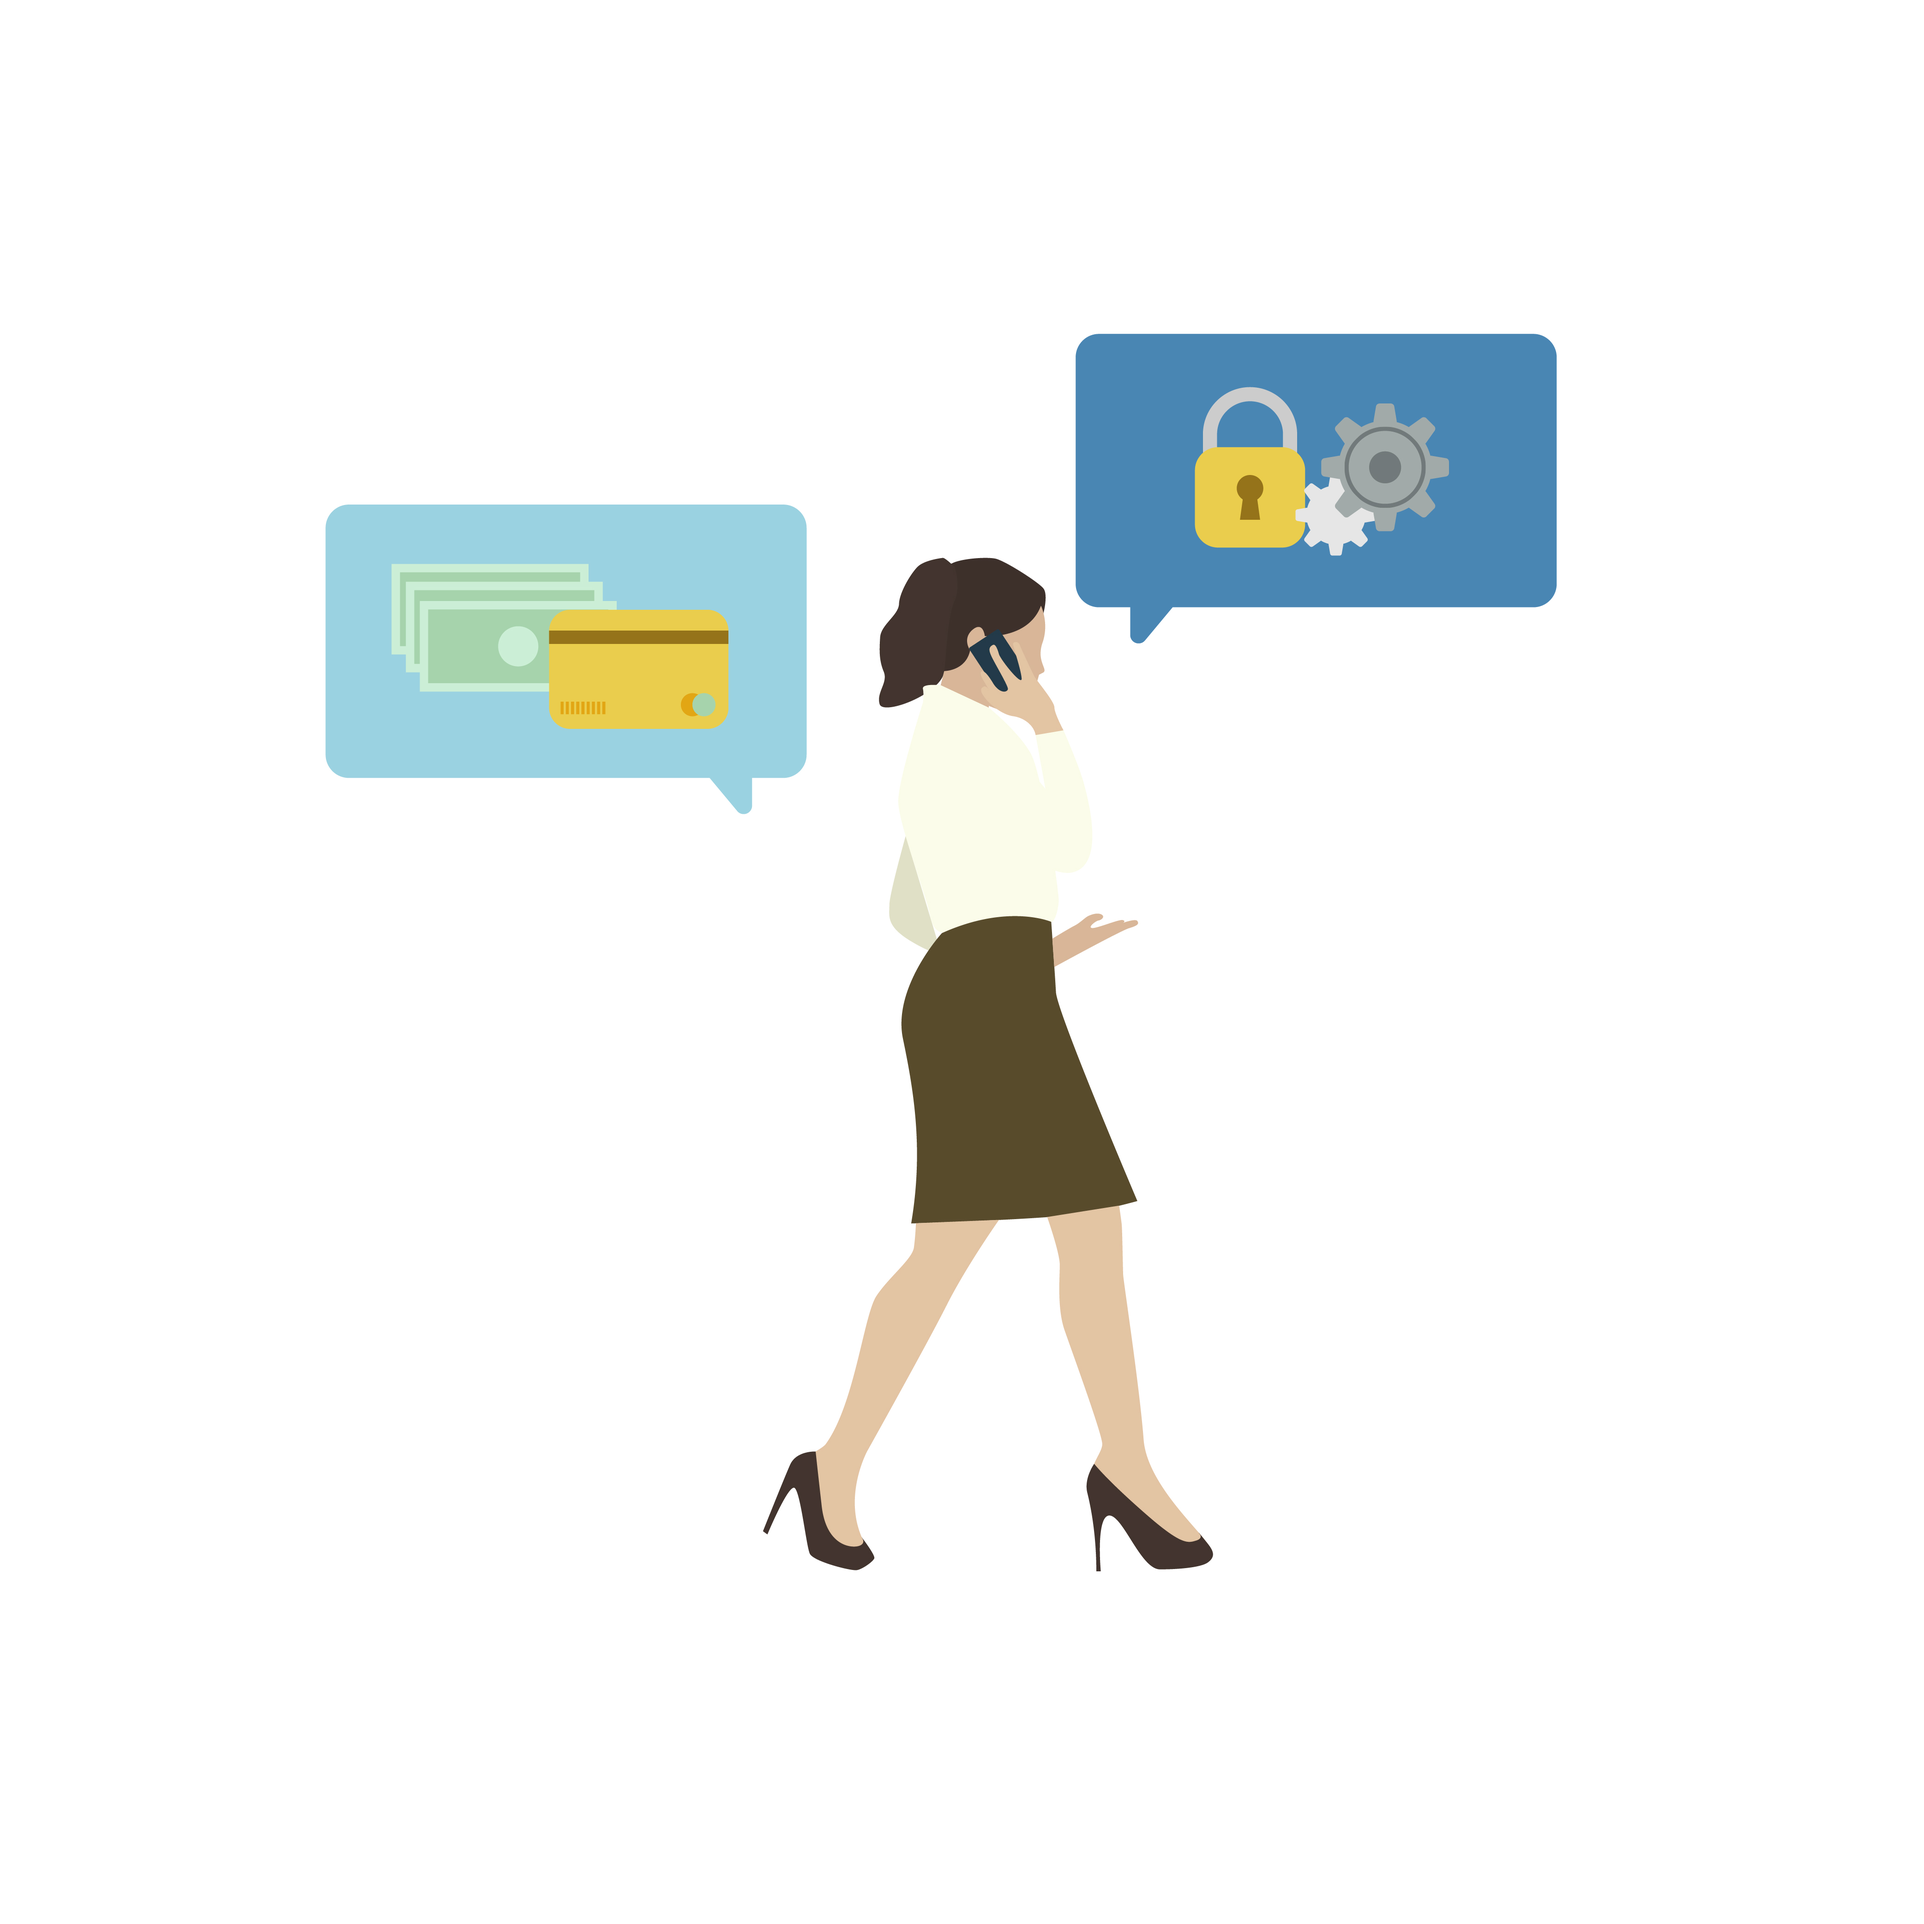
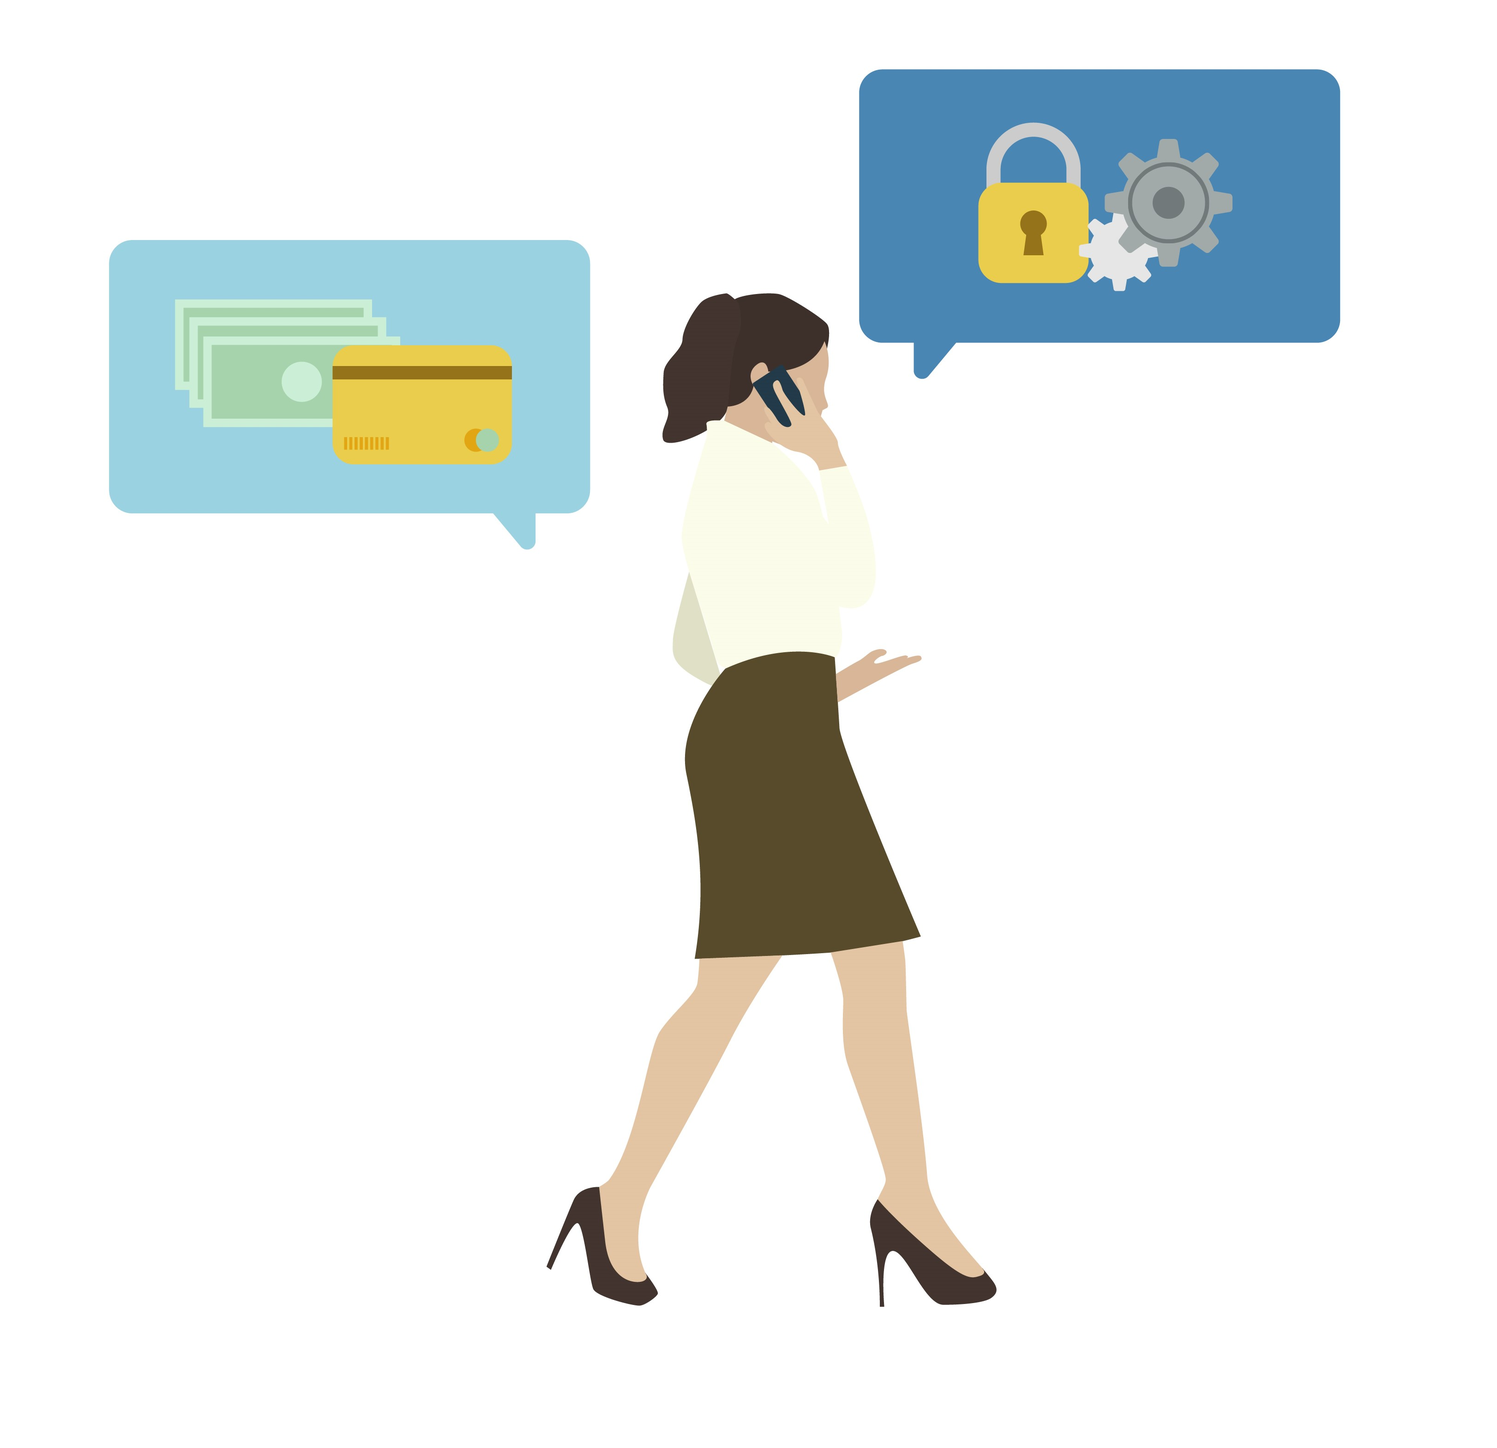
Login Image Added

Changed region(s): [[0.0623, 0.0312, 0.9032, 0.4374], [0.3737, 0.4061, 0.6852, 0.906]]

diff --git a/Practices 6/src/pages/Login/Login.jsx b/Practices 6/src/pages/Login/Login.jsx
@@ -8,9 +8,9 @@ const Login = () => {
   const [eye, setEye] = useState(false);
   return (
     <div className="flex items-center justify-center min-h-[calc(100vh-92px)]">
-      <div className="flex flex-col md:flex-row-reverse items-center w-full gap-5">
-        <div className="w-full md:w-1/2 bg-red-200 h-full ">
-          <img src={imageLogin} alt="" className="h-full" />
+      <div className="flex flex-col md:flex-row items-center w-full gap-5 border-2 rounded-lg border-secondary min-h-[450px] p-10 mt-8">
+        <div className="w-full md:w-1/2 h-[450px] flex justify-center items-center">
+          <img src={imageLogin} alt="" className="max-h-full mx-auto" />
         </div>
         <div className="w-full md:w-1/2 mx-auto border-2 rounded-lg p-5">
           <h1 className="text-3xl font-bold pb-6">Login Your Account</h1>
@@ -46,7 +46,7 @@ const Login = () => {
               className="w-full py-2 px-4 rounded-md text-center text-white font-bold bg-secondary active:scale-95 duration-150"
             />
           </form>{' '}
-          <p className="pt-3">
+          <p className="pt-3 text-sm">
             {`Don't have an account? `}
             <Link to={'/register'} className="underline">
               Create Account

diff --git a/Practices 6/src/pages/Register/Register.jsx b/Practices 6/src/pages/Register/Register.jsx
@@ -4,12 +4,15 @@ import { MdEmail } from 'react-icons/md';
 import { RiLockPasswordFill } from 'react-icons/ri';
 import { TbPasswordFingerprint } from 'react-icons/tb';
 import { Link } from 'react-router-dom';
+import imageLogin from '../../assets/Login.jpg';
 const Register = () => {
   const [eye, setEye] = useState(false);
   return (
     <div className="flex items-center justify-center min-h-[calc(100vh-92px)]">
-      <div className="flex flex-col md:flex-row items-center w-full gap-5">
-        <div className="w-full md:w-1/2 bg-red-200 h-44 "></div>
+      <div className="flex flex-col md:flex-row-reverse items-center w-full gap-5 border-2 rounded-lg border-secondary min-h-[450px] p-10 mt-8">
+        <div className="w-full md:w-1/2 h-[450px] flex justify-center items-center">
+          <img src={imageLogin} alt="" className="max-h-full mx-auto" />
+        </div>
         <div className="w-full md:w-1/2 mx-auto border-2 rounded-lg p-5">
           <h1 className="text-3xl font-bold pb-6">Create an account</h1>
           <form className="space-y-4">
